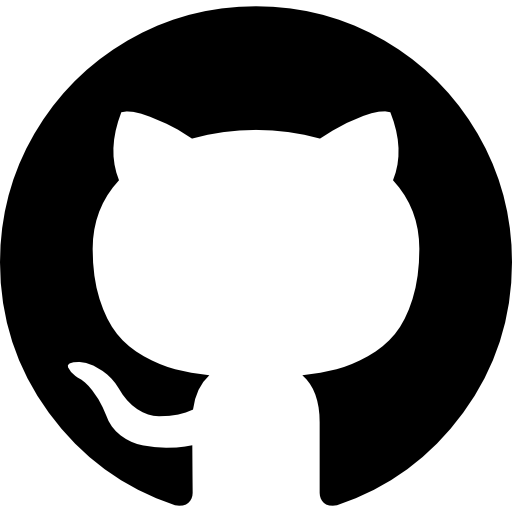
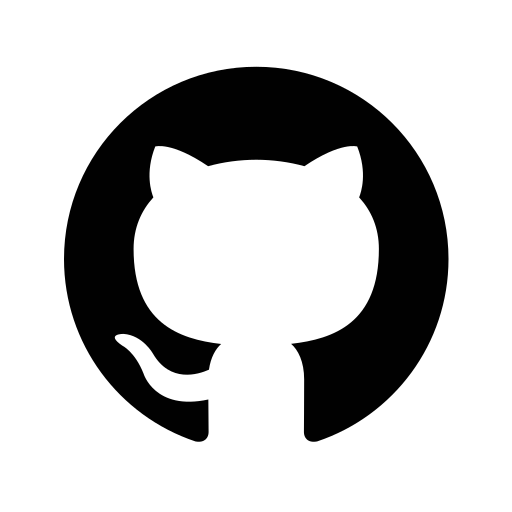
Icones e Ajustes de Fonte

diff --git a/Portfólio.html b/Portfólio.html
@@ -8,12 +8,23 @@
     h1 {
       font-family: 'Times New Roman', Times, serif;
     }
+    
+    h3 {
+      color: #00008B;
+    }
 
     body {
       background-color: azure;
     }
 
-    .Font-tamanho {
+    .List-hability {
+      font-size: 15px;
+      font-family: -apple-system, BlinkMacSystemFont, 'Segoe UI', Roboto, Oxygen, Ubuntu, Cantarell, 'Open Sans', 'Helvetica Neue', sans-serif;
+      width: 20%;
+      margin: auto;
+    }
+
+    .Indice {
       font-size: 15px;
       font-family: -apple-system, BlinkMacSystemFont, 'Segoe UI', Roboto, Oxygen, Ubuntu, Cantarell, 'Open Sans', 'Helvetica Neue', sans-serif;
       width: 20%;
@@ -23,6 +34,20 @@
     #img {
       border-radius: 50%
     }
+
+    div.box {
+      width: 50px;
+      display: inline-block;
+    }
+
+    .Sobre-mim {
+      width: 50%;
+      text-align: left;
+    }
+
+    .Strong-words {
+      color: #00008B;
+    }
   </style>
 
 </head>
@@ -31,10 +56,10 @@
   <center>
 
     <h1>Portfório Web</h1>
-    <h2>Felipe Yuji Shitara Shinkae</h2>
+    <h2>Olá, me chamo Felipe Shinkae</h2>
 
     <h3>Indice</h3>
-    <ol>
+    <ol class="Indice">
       <li><a href="#Sobre">Sobre Mim</a></li>
       <li><a href="#lista">Lista de Habilidades</a></li>
       <li><a href="#Redes">Redes Sociais</a></li>
@@ -46,8 +71,11 @@
 
 
     <h3 id="Sobre">Sobre Mim</h3>
-    <p>Me chamo Felipe Yuji Shitara Shinkae, sou formado em Engenharia Química e atualmente venho estudando programação
-      com a Trybe. Sou japonês, nasci na cidade de Ueda no Japão e atualmente estou morando em Três Lagoas/MS. <br>
+    <p Class="Sobre-mim">Me chamo Felipe Yuji Shitara Shinkae, sou formado em <strong class="Strong-words">Engenharia
+        Química</strong> e atualmente venho
+      estudando programação
+      com a Trybe. Sou japonês, nasci na cidade de Ueda no Japão e atualmente estou morando em <strong
+        class="Strong-words">Três Lagoas/MS</strong>. <br>
       Gosto muito de Viajar e tenho hobbies como ver animes, tocar instrumentos musicais, ler livros de ficção cientíca,
       jogar jogos online ou de tabuleiro e sair com os amigos, porém, na pandemia isso está bem difícil de
       acontecer.<br>
@@ -57,7 +85,7 @@
     </p>
 
     <h3 id="lista">Lista de Habilidades</h3>
-    <ul class="Font-tamanho">
+    <ul class="List-hability">
       <li><strong>Comunicativo</strong></li>
       <li>Rápido Aprendizado</li>
       <li>Dedicado</li>
@@ -65,12 +93,25 @@
     </ul>
 
     <h3 id="Redes">Redes Sociais</h3>
-    <ul>
-      <li><a href="https://www.linkedin.com/in/felipe-shinkae/" target="_blank">Linkedin</a></li>
-      <li><a href="https://www.instagram.com/fshinkae" target="_blank">Instagram</a></li>
-      <li><a href="https://twitter.com/fshinkae" target="_blank">twitter</a></li>
-      <li><a href="https://github.com/fshinkae" target="_blank">Github</a></li>
-    </ul>
+
+    <div class="box">
+      <a href="https://www.linkedin.com/in/felipe-shinkae/" target="_blank"> <img src="Linkedin.png"
+          alt="Linkedin de Felipe Shinkae" width="50px"></a>
+    </div>
+
+    <div class="box"><a href="https://www.instagram.com/fshinkae" target="_blank"><img src="Instagram.png"
+          alt="Instagram de Felipe Shinkae" width="50px"></a></div>
+
+    <div class="box">
+      <a href="https://twitter.com/fshinkae" target="_blank"><img src="Twitter.png" alt="Twitter de Felipe Shinkae"
+          width="50px"></a>
+    </div>
+
+    <div class="box">
+      <a href="https://github.com/fshinkae" target="_blank"><img src="Github.png" alt="Github de Felipe Shinkae"
+          width="53px"></a>
+    </div>
+
   </center>
 
 
